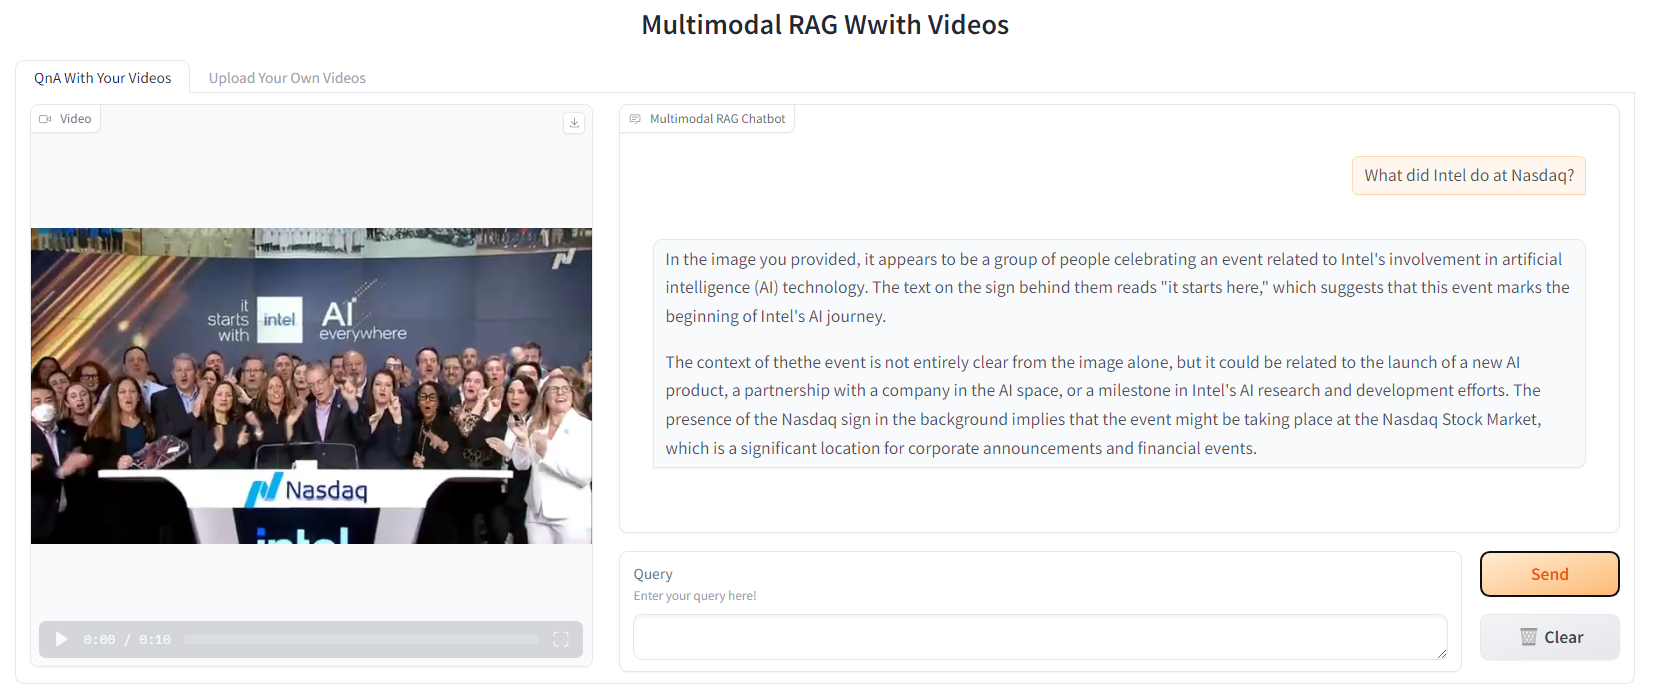
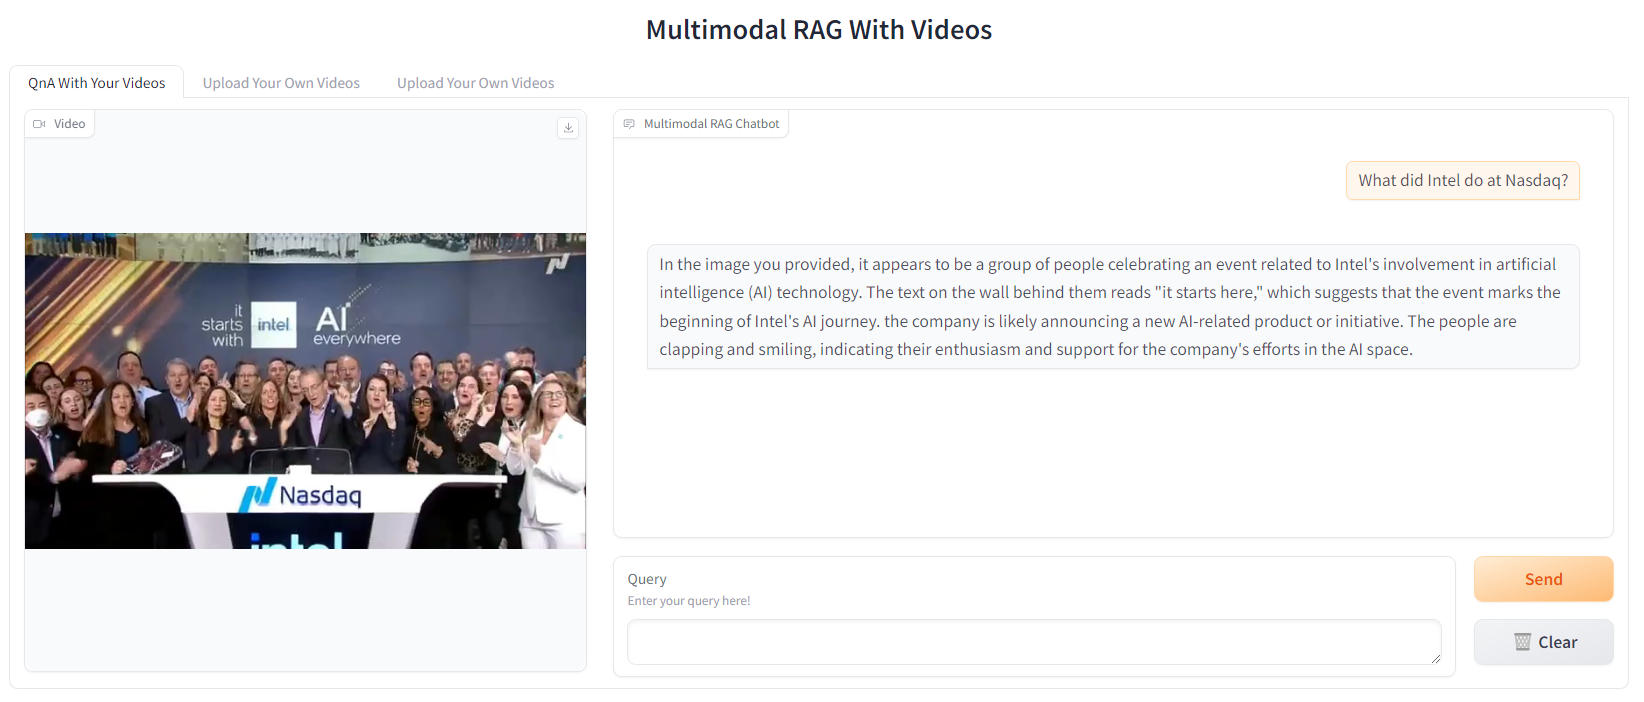
update test xeon

diff --git a/MultimodalRAGWithVideos/ui/gradio/mmragwithvideos_ui_gradio.py b/MultimodalRAGWithVideos/ui/gradio/mmragwithvideos_ui_gradio.py
@@ -141,7 +141,7 @@ def http_bot(state, request: gr.Request):
     return
 
 
-def ingest_video(filepath, request: gr.Request):
+def ingest_video_gen_transcript(filepath, request: gr.Request):
     yield (gr.Textbox(visible=True, value="Please wait for ingesting your uploaded video into database..."))
     basename = os.path.basename(filepath)
     dest = os.path.join(static_dir, basename)
@@ -182,20 +182,73 @@ def ingest_video(filepath, request: gr.Request):
         time.sleep(2)
     return
 
+def ingest_video_gen_caption(filepath, request: gr.Request):
+    yield (gr.Textbox(visible=True, value="Please wait for ingesting your uploaded video into database..."))
+    basename = os.path.basename(filepath)
+    dest = os.path.join(static_dir, basename)
+    shutil.copy(filepath, dest)
+    print("Done copy uploaded file to static folder!")
+    headers = {
+        # 'Content-Type': 'multipart/form-data'
+    }
+    files = {
+        "files": open(dest, "rb"),
+    }
+    response = requests.post(dataprep_gen_captiono_addr, headers=headers, files=files)
+    print(response.status_code)
+    if response.status_code == 200:
+        response = response.json()
+        print(response)
+        yield (gr.Textbox(visible=True, value="Video ingestion is done. Saving your uploaded video..."))
+        time.sleep(2)
+        fn_no_ext = Path(dest).stem
+        if "video_id_maps" in response and fn_no_ext in response["video_id_maps"]:
+            new_dst = os.path.join(static_dir, response["video_id_maps"][fn_no_ext])
+            print(response["video_id_maps"][fn_no_ext])
+            os.rename(dest, new_dst)
+            yield (
+                gr.Textbox(
+                    visible=True,
+                    value="Congratulation! Your upload is done!\nClick the X button on the top right of the video upload box to upload another video.",
+                )
+            )
+            return
+    else:
+        yield (
+            gr.Textbox(
+                visible=True,
+                value="Something wrong!\nPlease click the X button on the top right of the video upload boxreupload your video!",
+            )
+        )
+        time.sleep(2)
+    return
 
 def clear_uploaded_video(request: gr.Request):
     return gr.Textbox(visible=False)
 
 
-with gr.Blocks() as upload:
-    gr.Markdown("# Ingest Your Own Video")
+with gr.Blocks() as upload_gen_trans:
+    gr.Markdown("# Ingest Your Own Video - Utilizing Generated Transcripts")
+    gr.Markdown("Please use this interface to ingest your own video if the video has meaningful audio (e.g., announcements, discussions, etc...)")
     with gr.Row():
         with gr.Column(scale=6):
             video_upload = gr.Video(sources="upload", height=512, width=512, elem_id="video_upload")
         with gr.Column(scale=3):
             text_upload_result = gr.Textbox(visible=False, interactive=False, label="Upload Status")
-        video_upload.upload(ingest_video, [video_upload], [text_upload_result])
+        video_upload.upload(ingest_video_gen_transcript, [video_upload], [text_upload_result])
         video_upload.clear(clear_uploaded_video, [], [text_upload_result])
+
+with gr.Blocks() as upload_gen_captions:
+    gr.Markdown("# Ingest Your Own Video - Utilizing Generated Captions")
+    gr.Markdown("Please use this interface to ingest your own video if the video has meaningless audio (e.g., background musics, etc...)")
+    with gr.Row():
+        with gr.Column(scale=6):
+            video_upload_cap = gr.Video(sources="upload", height=512, width=512, elem_id="video_upload_cap")
+        with gr.Column(scale=3):
+            text_upload_result_cap = gr.Textbox(visible=False, interactive=False, label="Upload Status")
+        video_upload_cap.upload(ingest_video_gen_transcript, [video_upload_cap], [text_upload_result_cap])
+        video_upload_cap.clear(clear_uploaded_video, [], [text_upload_result_cap])
+
 with gr.Blocks() as qna:
     state = gr.State(mm_rag_with_videos.copy())
     with gr.Row():
@@ -238,12 +291,14 @@ with gr.Blocks() as qna:
         [state, chatbot, video, clear_btn],
     )
 with gr.Blocks(css=css) as demo:
-    gr.Markdown("# Multimodal RAG Wwith Videos")
+    gr.Markdown("# Multimodal RAG With Videos")
     with gr.Tabs():
         with gr.TabItem("QnA With Your Videos"):
             qna.render()
         with gr.TabItem("Upload Your Own Videos"):
-            upload.render()
+            upload_gen_trans.render()
+        with gr.TabItem("Upload Your Own Videos"):
+            upload_gen_captions.render()
 
 demo.queue()
 app = gr.mount_gradio_app(app, demo, path="/")

diff --git a/MultimodalRAGWithVideos/README.md b/MultimodalRAGWithVideos/README.md
@@ -179,8 +179,8 @@ docker compose -f compose.yaml up -d
 
 ## MultimodalRAGWithVideos Demo on Gaudi2
 
-![MultimodalRAGWithVideos-upload-waiting-screenshot](./assets/img/upload_waiting.png)
+![MultimodalRAGWithVideos-upload-waiting-screenshot](./assets/img/upload-gen-trans.png)
 
-![MultimodalRAGWithVideos-upload-done-screenshot](./assets/img/upload_done.png)
+![MultimodalRAGWithVideos-upload-done-screenshot](./assets/img/upload-gen-captions.png)
 
 ![MultimodalRAGWithVideos-query-example-screenshot](./assets/img/example_query.png)
